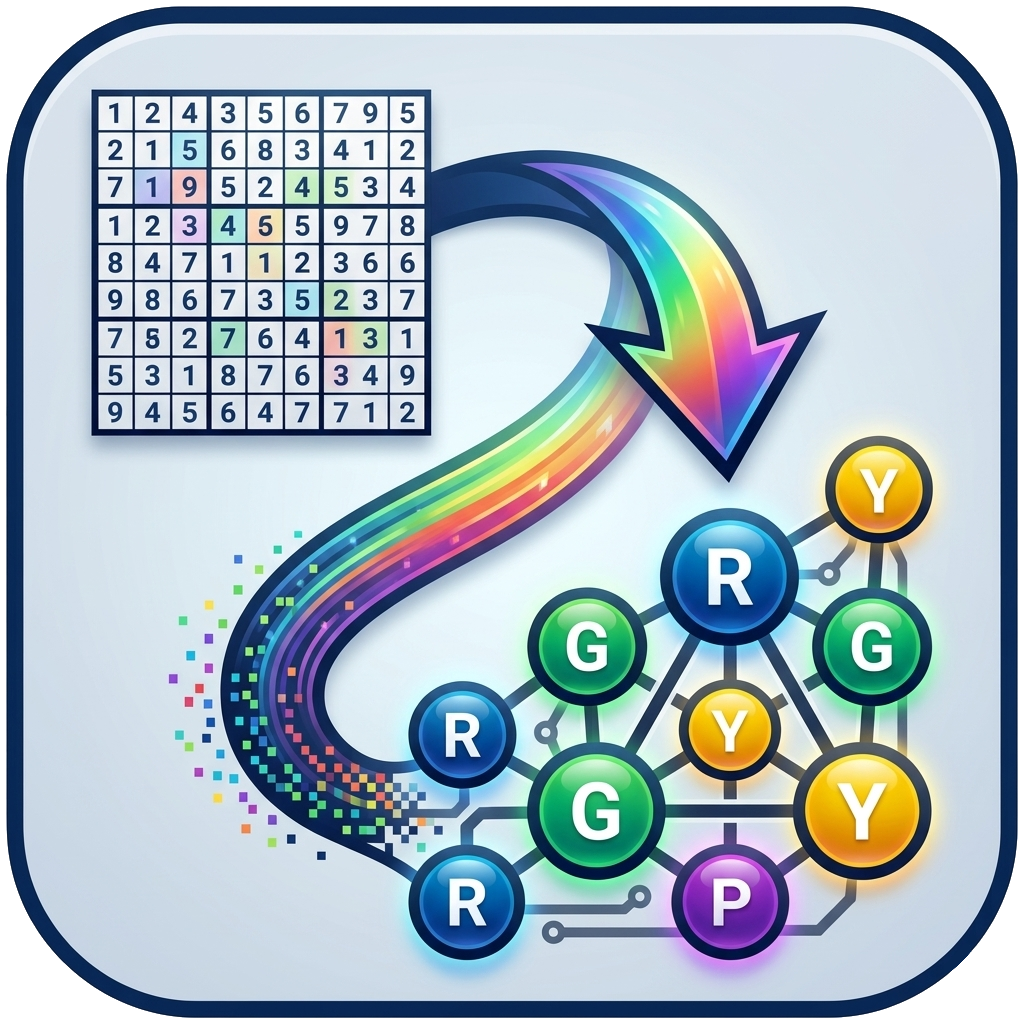
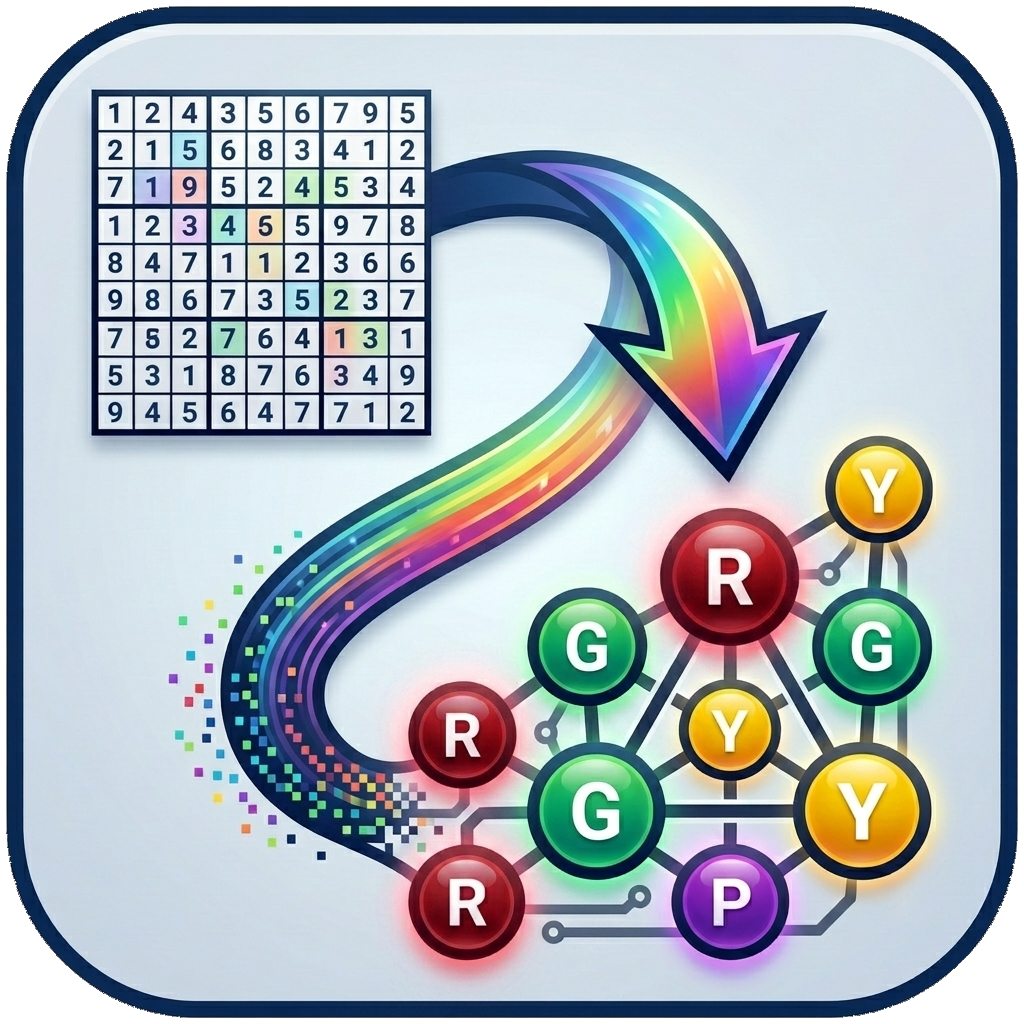
make changes to the multimedia content

Changed region(s): [[0.375, 0.6562, 0.5312, 0.9688], [0.625, 0.4688, 0.8125, 0.6562]]

diff --git a/templates/index.html b/templates/index.html
@@ -11,7 +11,7 @@
       <div class="shell">
          <header class="masthead">
             <span class="eyebrow">Polynomial-Time Reduction</span>
-            <h1>Sudoku 2 Precoloring extension</h1>
+            <h1>Sudoku 2 PrecoloringExtension</h1>
             <p class="dek">
                Each cell is a vertex, and each row, column, or block constraint is an edge.
                This is a <em>family</em> of reductions parametrized by the block size <code>n</code>